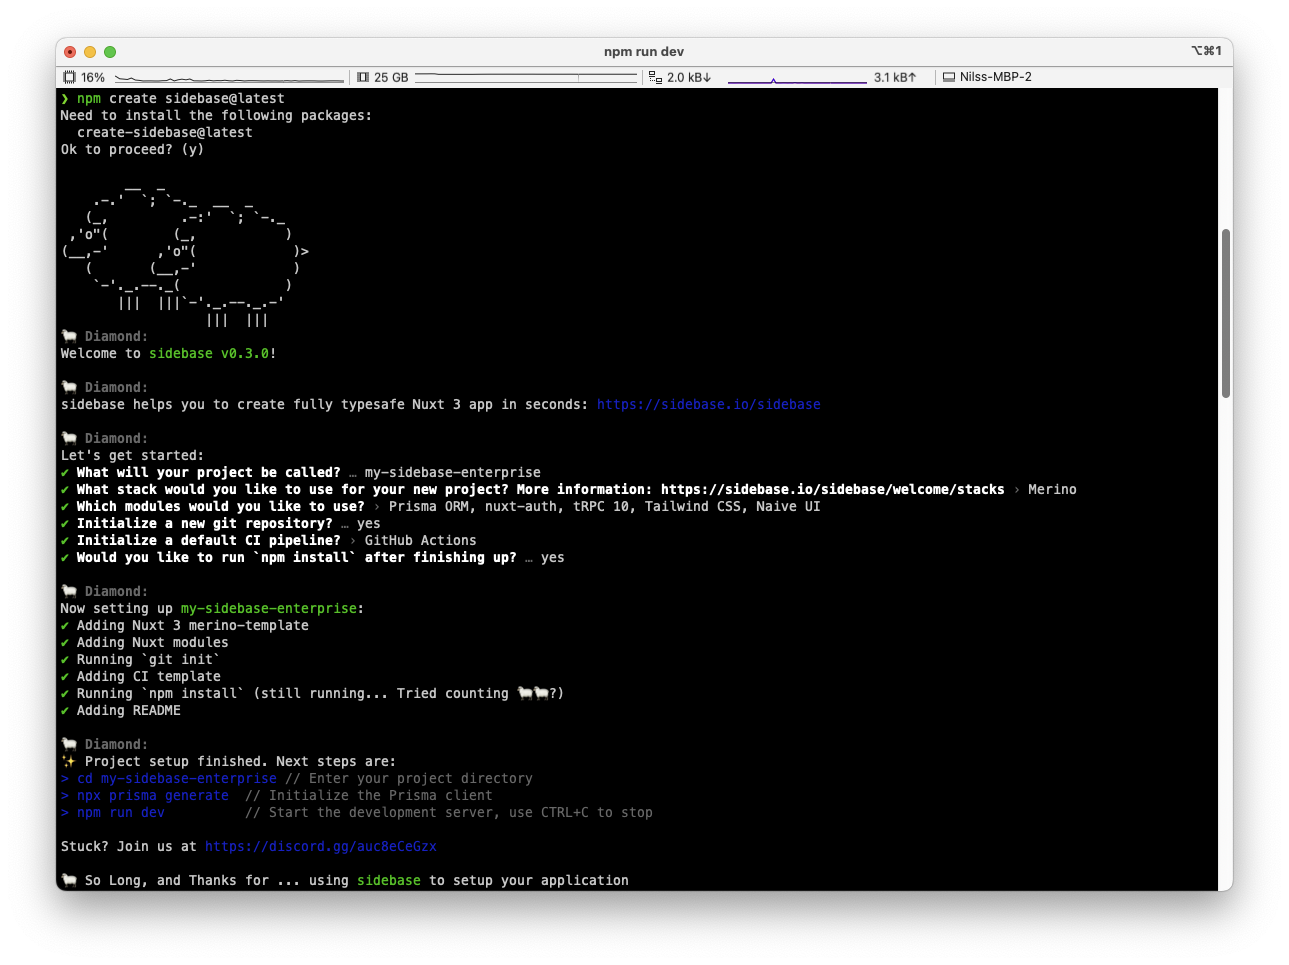
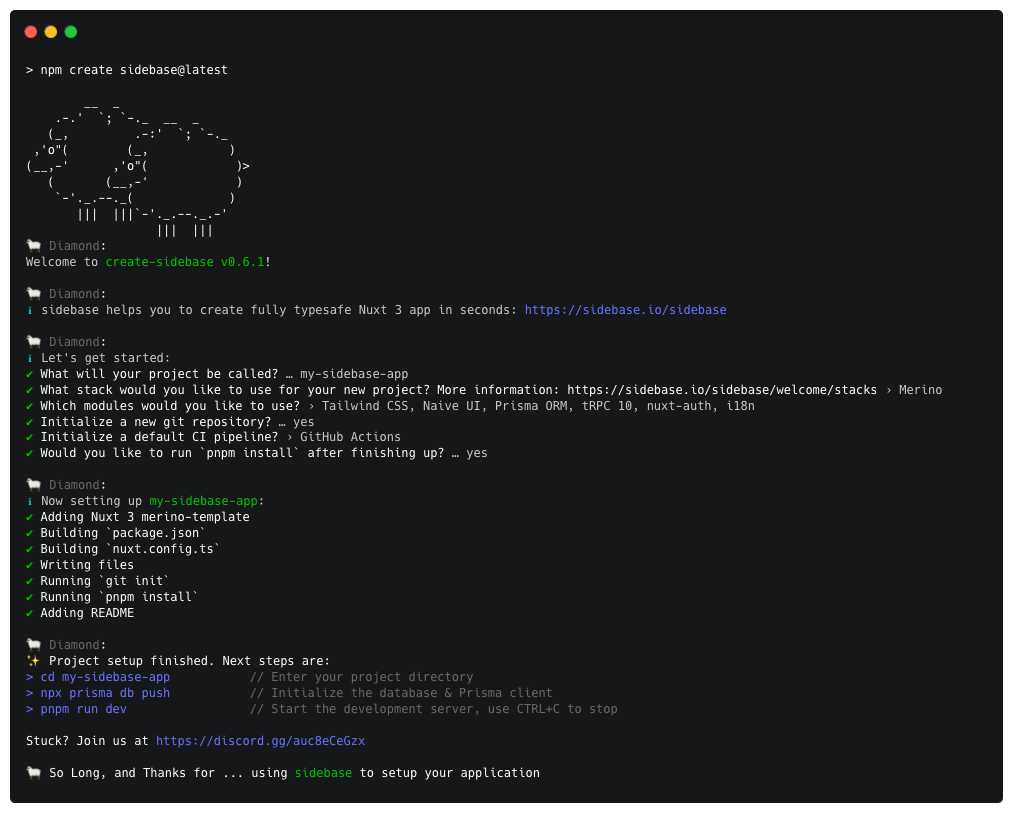
chore: Added features to readme and updated terminal preview (#42)

diff --git a/README.md b/README.md
@@ -10,7 +10,11 @@
   Get started with the <a target="_blank" href="https://sidebase.io/sidebase">sidebase</a> fully typed Nuxt 3 starter by running <code>npm create sidebase@latest</code>
 </p>
 
-![sidebase](./.github/create-sidebase.png)
+<p align="center">
+    <img src="./.github/create-sidebase.png" alt="sidebase preview" width="700" />
+</p>
+
+## create-sidebase
 
 [![npm version][npm-version-src]][npm-version-href]
 [![npm downloads][npm-downloads-src]][npm-downloads-href]
@@ -19,9 +23,7 @@
 [![Follow us on Twitter](https://badgen.net/badge/icon/twitter?icon=twitter&label)](https://twitter.com/sidebase_io)
 [![Join our Discord](https://badgen.net/badge/icon/discord?icon=discord&label)](https://discord.gg/NDDgQkcv3s)
 
-## create-sidebase
-
-The productive way to build fullstack Nuxt 3 applications.
+> The productive way to build fullstack Nuxt 3 applications.
 
 sidebase is a web app development kit to build production ready fullstack apps quickly. We build sidebase to provide a modular, modern, fully-typed and best-practice approach to make your ideas a reality. Around a core of TypeScript and Nuxt 3 sidebase adds components like databases, CI, authentication, testing and more.
 
@@ -34,3 +36,16 @@ sidebase is a web app development kit to build production ready fullstack apps q
 
 [license-src]: https://img.shields.io/npm/l/create-sidebase.svg
 [license-href]: https://npmjs.com/package/create-sidebase
+
+## Features
+
+- Automatic installation and setup of popular Nuxt3 modules
+  - [TailwindCSS](https://tailwindcss.com/): A utility-first CSS framework packed with classes that can be composed to build any design, directly in your markup.
+  - [Naive UI](https://www.naiveui.com/): A Vue 3 Component Library. Complete, Customizable, Uses TypeScript, Fast.
+  - [Prisma ORM](https://www.prisma.io/): Next-generation Node.js and TypeScript ORM.
+  - [tRPC 10](https://trpc.io/): Build end-to-end typesafe APIs in Nuxt applications.
+  - [sidebase-auth](https://sidebase.io/nuxt-auth): Authentication via OAuth, Credentials and magic email flows. Wraps the popular NextAuth.js with 12k stars.
+  - [i18n](https://i18n.nuxtjs.org/): I18n (Internationalization) module for your Nuxt project powered by Vue I18n.
+- Premade CI pipeline templates, built for Nuxt
+  - [Github Actions](https://docs.github.com/en/actions)
+  - [DroneCI](https://www.drone.io/)
